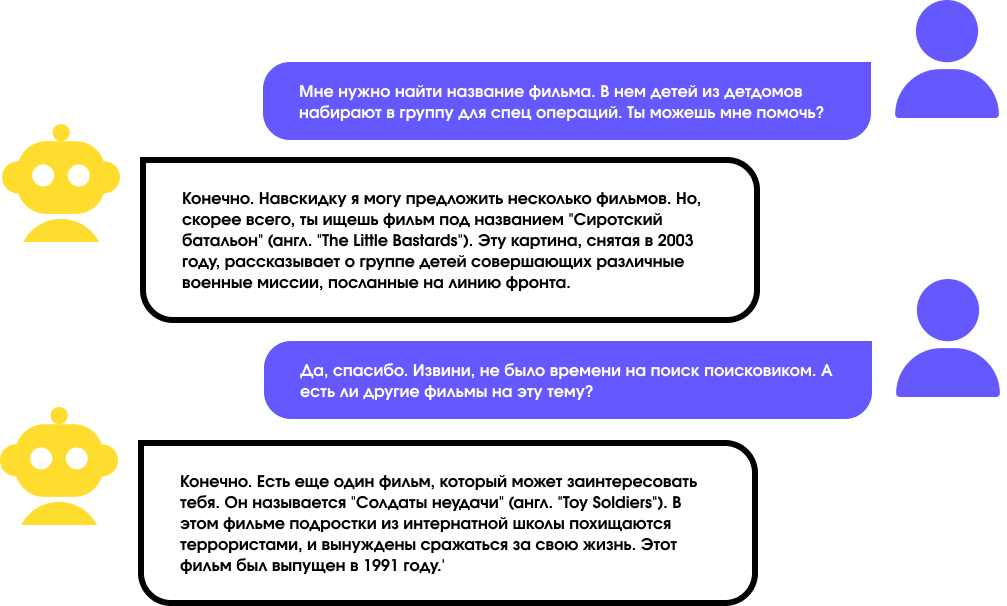
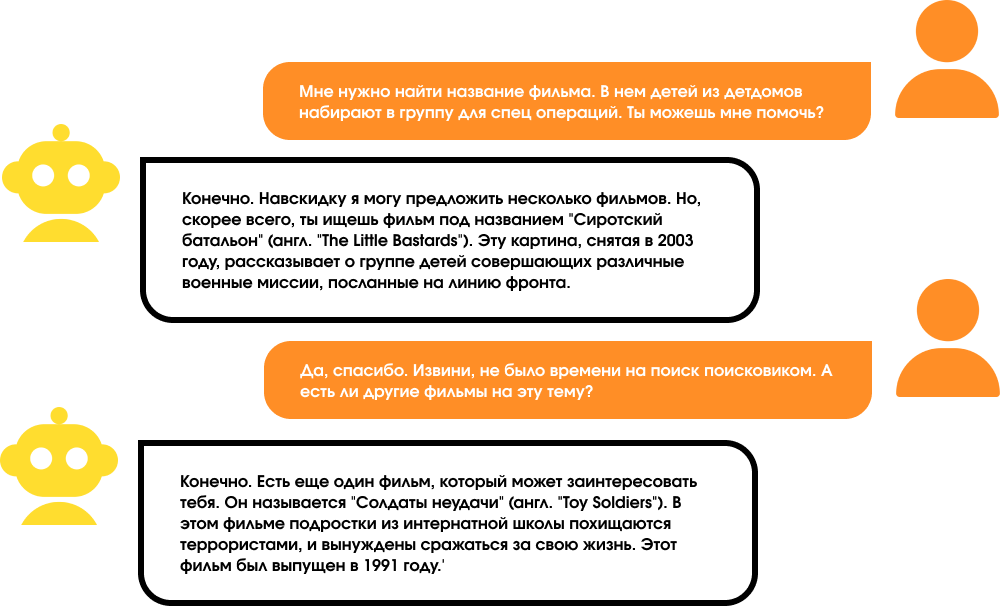
change theme in readme

Changed region(s): [[0.2463, 0.4455, 1.0, 0.7129], [0.2463, 0.0, 1.0, 0.2376]]

diff --git a/README.md b/README.md
@@ -7,11 +7,11 @@
 [task-description.md](task-description.md) — описание поставленной задачи \
 [task.md](task.md) — выполненные 1 и 2 части задачи. В нем предложены фичи для ассистента Джуниора, например, ведение эмоционального дневника
 
-<br><br>
+<br>
 
 ![](img/emotions-pipeline.png)
 
-<br><br>
+<br>
 
 [data_analysis.ipynb](notebooks/data_analysis.ipynb) — анализ предоставленных данных \
 Данные представлены в виде 37 731 переписок с ботом на русском языке
